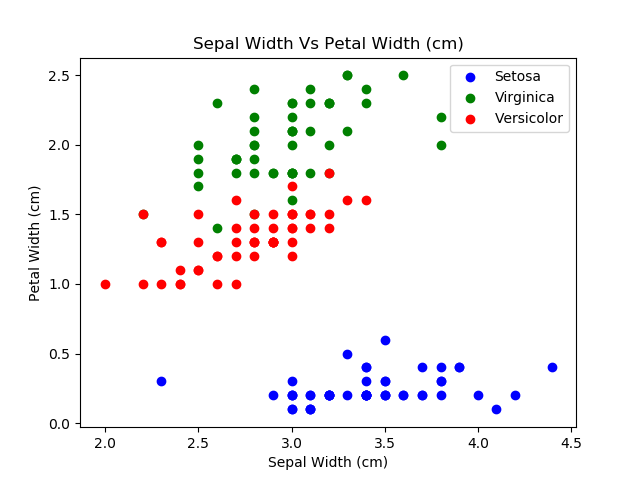
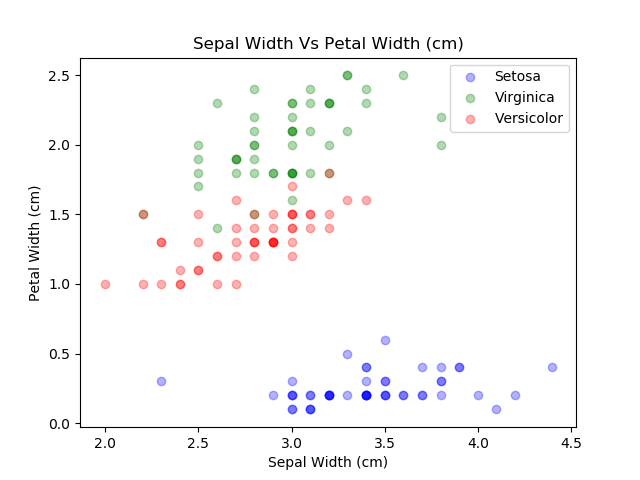
Started tidying up notes in the program. Also added an alpha to the separated scatter plots to make overlaps easier to see.

diff --git a/irisAnalysis.py b/irisAnalysis.py
@@ -33,12 +33,12 @@ import numpy as np
 csv = 'iris_csv.csv'
 
 # Save the csv to a pandas data frame. I'm setting the index to be the class column.
+# This is so that I can iterate over the other columns a bit more easily. 
+# I'll reset the index later for Seaborn.
 df = pd.read_csv(csv, index_col = "type")
 
-# Got the idea to iterate through column names from https://www.marsja.se/how-to-get-the-column-names-from-a-pandas-dataframe-print-and-list/#3_Get_Column_Names_by_Iterating_of_the_Columns
-# Column names without the space looks odd. Figure if I can get past the "l" in Sepal and Petal, and split it into 2 strings with a space in the middle, it'll look neater.
-# Since I'll need this again later, I'm turning it into a function called nameFormat.
-
+# Creating a function to format the column names so that they can be used for titles etc. 
+# First word in each column ends with "l", so I can use that to separate the two words.
 def nameFormat(name):
     """ Edits the name of the column so that it is properly formatted with a space between the words, and each word capitalized."""
     space = name.find("l") + 1
@@ -49,9 +49,12 @@ def nameFormat(name):
 
 fig, ax = plt.subplots(2, 2, figsize = (8,8), sharex = True, sharey = True)
 n = 0
+# Got the idea to iterate through column names from: 
+# https://www.marsja.se/how-to-get-the-column-names-from-a-pandas-dataframe-print-and-list/#3_Get_Column_Names_by_Iterating_of_the_Columns
 for measurement in df.columns:
     binsizes = np.arange(0, 8, 0.25)
-    # ax.flatten() picked up from https://stackoverflow.com/questions/37967786/axes-from-plt-subplots-is-a-numpy-ndarray-object-and-has-no-attribute-plot
+    # ax.flatten() picked up from:
+    # https://stackoverflow.com/questions/37967786/axes-from-plt-subplots-is-a-numpy-ndarray-object-and-has-no-attribute-plot
     ax = ax.flatten()
     ax[n].hist(df[measurement], bins=binsizes, facecolor = 'blue', edgecolor='black')
     name = nameFormat(measurement)
@@ -64,16 +67,23 @@ fig.savefig("plots/originalHistograms.png")
 fig.clf()
 
 
-#tip picked up from median blog
+# Splitting the dataframe up by Iris type. This allows me to differentiate between them on the plots.
+# Picked up this tip from:
+# https://medium.com/@avulurivenkatasaireddy/exploratory-data-analysis-of-iris-data-set-using-python-823e54110d2d
 iris_setosa=df.loc["Iris-setosa"]
 iris_virginica=df.loc["Iris-virginica"]
 iris_versicolor=df.loc["Iris-versicolor"]
 
+
+# Doing Histograms again, but now with different colours for each Iris type. 
+# This will let us see the differences between each type and their respective trends.
 fig, ax = plt.subplots(2, 2, figsize = (8,8), sharex = True, sharey = True)
 n = 0
 for measurement in df.columns:
     binsizes = np.arange(0, 8, 0.25)
     ax = ax.flatten()
+    # Going to give each flower its own colour, add an edgecolor to make the boundaries clearer to see
+    # and used alpha to make them translucent so that we can see overlaps.
     ax[n].hist(iris_setosa[measurement], facecolor='b', edgecolor = 'k', label='Setosa', alpha =0.3, bins=binsizes)
     ax[n].hist(iris_virginica[measurement], facecolor='g', edgecolor = 'k', label = 'Virginica', alpha = 0.3, bins = binsizes)
     ax[n].hist(iris_versicolor[measurement], facecolor='r', edgecolor = 'k', label = 'Versicolor', alpha = 0.3, bins = binsizes)
@@ -88,9 +98,9 @@ fig.savefig("plots/seperatedHistograms.png")
 plt.clf()
 plt.close()
 
+# Outputting some summary statistics of the dataframe to a text file.
 # Using https://pandas.pydata.org/pandas-docs/stable/reference/api/pandas.DataFrame.describe.html 
 # This is providing some data points I can ouput from the columns, e.g. median, mean.
-
 f = open("analysis.txt","w")
 f.write ("Data Points Summary\n")
 for measurement in df.columns:
@@ -103,11 +113,15 @@ for measurement in df.columns:
         "The mean of " + name + " is " + str(round(df[measurement].mean(),2)) + ".\n")
 f.close()
 
+# I'll now be doing scatter plots with each measurement plotted against each other.
+# To do this, I've devised a WHILE loop with IF conditions.
+# First I'll need to define three variables for the the above mentioned loop.
 x = 0
 y = 1
 z = len(df.columns)
 
- #Since my while loop was reusing this code, I've made scatter into a function.
+#Since my while loop was reusing this code, I've made scatter into a function.
+#This means that at as x and y are changed in the next loop, it'll do a scatter plot of df.columns[x] vx df.columns[y].
 def scatter(x,y):
     """ Plots the columns x and y onto a scatter plot, while adding text to the axis and title."""
     fig, ax = plt.subplots()
@@ -122,8 +136,10 @@ def scatter(x,y):
     fig.savefig('plots/' + xaxis + "Vs" + yaxis + ".png")
     fig.clf()
 
- #I was getting an error because y was becoming greater than the number of columns. For now I will use a try and except to get past this, as its expected.
- #Learned about using pass in the except section here - https://stackoverflow.com/questions/574730/python-how-to-ignore-an-exception-and-proceed
+#I was getting an error because y was becoming greater than the number of columns. 
+# For now I will use a try and except to get past this, as its expected.
+#Learned about using pass in the except section here: 
+# https://stackoverflow.com/questions/574730/python-how-to-ignore-an-exception-and-proceed
 try:
     while x < z:
         if y < z:
@@ -137,7 +153,8 @@ try:
 except:
     pass
 
-
+# I'll now be doing the same scatter plots, but using the three dataframe slices from before.
+# This means that each iris type will now have its own colour on the scatter plot.
 x = 0
 y = 1
 z = len(df.columns)
@@ -153,9 +170,9 @@ def scatter2(x,y):
     virginica_y = iris_virginica.columns[y]
     versicolor_x = iris_versicolor.columns[x]
     versicolor_y = iris_versicolor.columns[y]
-    ax.scatter(iris_setosa[setosa_x],iris_setosa[setosa_y], color='b', label='Setosa')
-    ax.scatter(iris_virginica[virginica_x],iris_virginica[virginica_y], color='g', label = 'Virginica')
-    ax.scatter(iris_versicolor[versicolor_x],iris_versicolor[versicolor_y], color='r', label = 'Versicolor')
+    ax.scatter(iris_setosa[setosa_x],iris_setosa[setosa_y], color='b', label='Setosa', alpha = 0.3)
+    ax.scatter(iris_virginica[virginica_x],iris_virginica[virginica_y], color='g', label = 'Virginica', alpha = 0.3)
+    ax.scatter(iris_versicolor[versicolor_x],iris_versicolor[versicolor_y], color='r', label = 'Versicolor', alpha = 0.3)
     xaxisName = nameFormat(xaxis)
     yaxisName = nameFormat(yaxis)
     ax.set_xlabel(xaxisName + " (cm)")
@@ -169,13 +186,11 @@ def scatter2(x,y):
 try:
     while x < z:
         if y < z:
-                #put code here
             scatter2(x,y)
             y += 1
         elif y == z:
             x += 1
             y = x + 1
-            # put code here
             scatter2(x,y)
             y += 1
 except:
